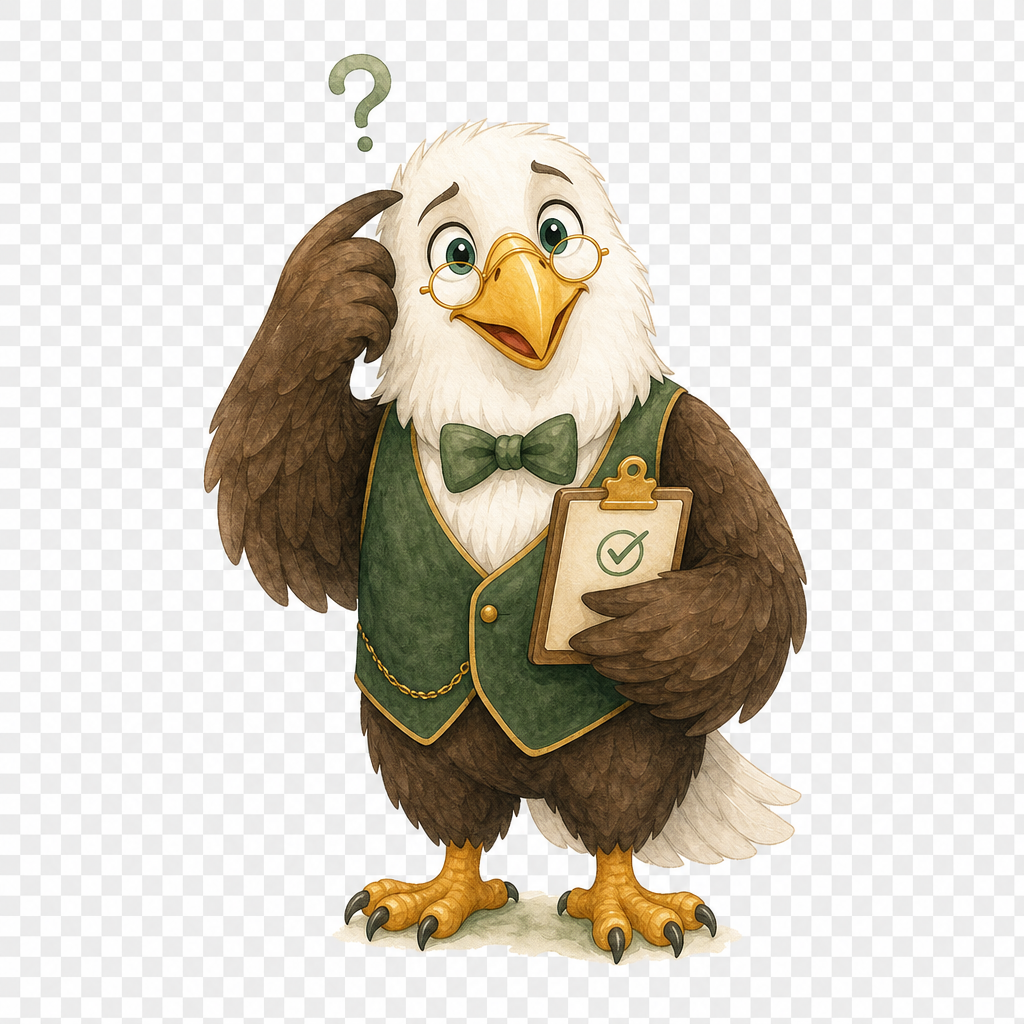
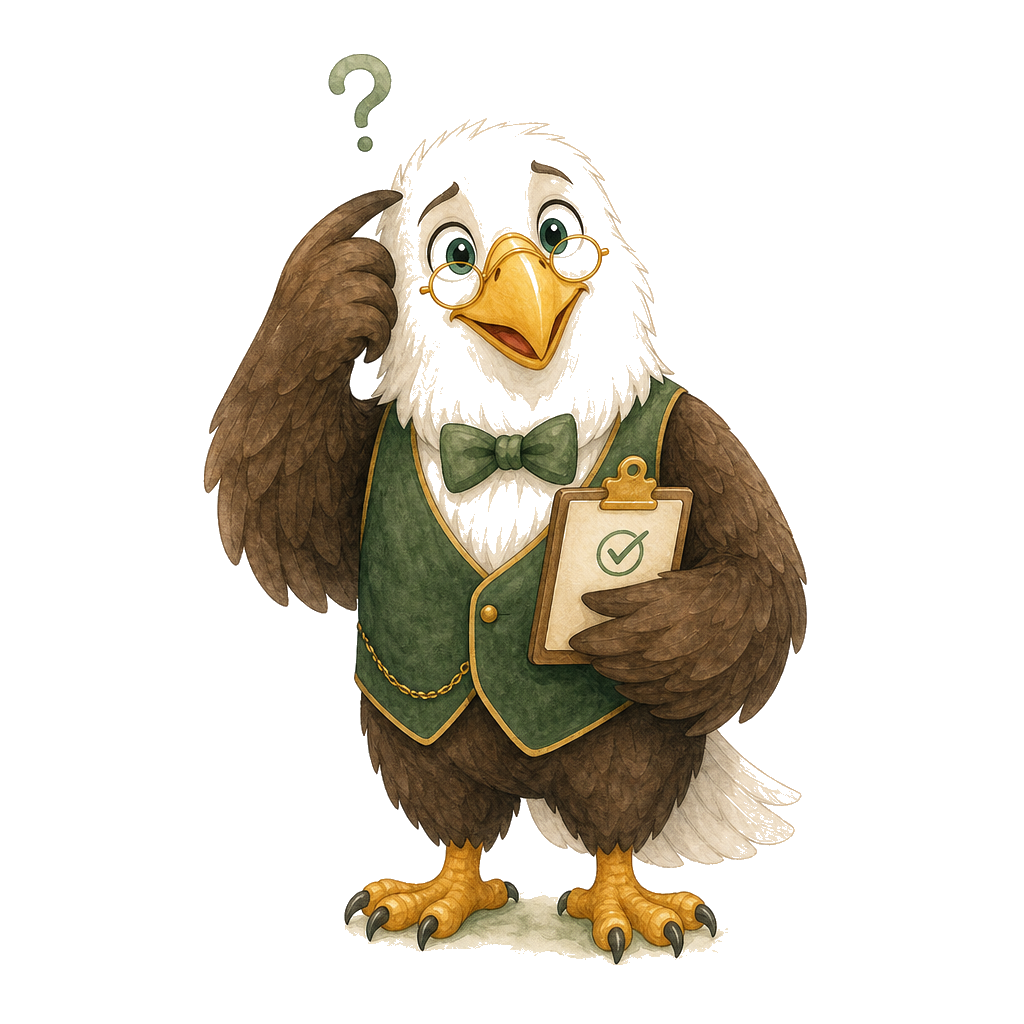
404 eagle: transparent PNG and side-by-side layout
Remove gray background from mascot image. Place eagle beside
headline and copy on md+ screens; consolidate into one hero section.

diff --git a/src/app/not-found.tsx b/src/app/not-found.tsx
@@ -5,40 +5,38 @@ export default function NotFound() {
   return (
     <div>
       <section className="hero-glow border-b border-base-300/80">
-        <div className="max-w-xl mx-auto px-4 py-12 md:py-16 text-center">
-          <Image
-            src="/404-eagle-mascot.png"
-            alt="A friendly eagle who could not find this page"
-            width={200}
-            height={200}
-            className="mx-auto mb-4 shadow-soft rounded-2xl"
-            priority
-          />
-          <p className="hero-eyebrow mb-3">404 · Page not found</p>
-          <h1 className="text-3xl md:text-4xl font-bold hero-headline tracking-tight text-balance">
-            This page isn&apos;t open for subscriptions
-          </h1>
-        </div>
-      </section>
-
-      <div className="max-w-xl mx-auto px-4 py-10 md:py-14">
-        <div className="card-elevated p-8 md:p-10 text-center space-y-6">
-          <p className="text-neutral/70 leading-relaxed">
-            Our eagle checked the file. This URL is not in the directory: not approved, not
-            pending, not anywhere on EB5 Base. The good news is that unlike EB-5, a wrong click
-            costs you nothing.
-          </p>
-
-          <div className="flex flex-col sm:flex-row gap-3 justify-center">
-            <Link href="/" className="btn btn-primary rounded-full">
-              Go home
-            </Link>
-            <Link href="/projects" className="btn btn-ghost rounded-full">
-              Browse projects
-            </Link>
+        <div className="max-w-3xl mx-auto px-4 py-12 md:py-16">
+          <div className="flex flex-col md:flex-row items-center md:items-start gap-6 md:gap-8">
+            <Image
+              src="/404-eagle-mascot.png"
+              alt="A friendly eagle who could not find this page"
+              width={180}
+              height={180}
+              className="shrink-0 w-36 h-36 md:w-44 md:h-44 object-contain"
+              priority
+            />
+            <div className="text-center md:text-left flex-1 min-w-0">
+              <p className="hero-eyebrow mb-3">404 · Page not found</p>
+              <h1 className="text-3xl md:text-4xl font-bold hero-headline tracking-tight text-balance">
+                This page isn&apos;t open for subscriptions
+              </h1>
+              <p className="text-neutral/70 leading-relaxed mt-4">
+                Our eagle checked the file. This URL is not in the directory: not approved, not
+                pending, not anywhere on EB5 Base. The good news is that unlike EB-5, a wrong click
+                costs you nothing.
+              </p>
+              <div className="flex flex-col sm:flex-row gap-3 mt-6 justify-center md:justify-start">
+                <Link href="/" className="btn btn-primary rounded-full">
+                  Go home
+                </Link>
+                <Link href="/projects" className="btn btn-ghost rounded-full">
+                  Browse projects
+                </Link>
+              </div>
+            </div>
           </div>
         </div>
-      </div>
+      </section>
     </div>
   );
 }
